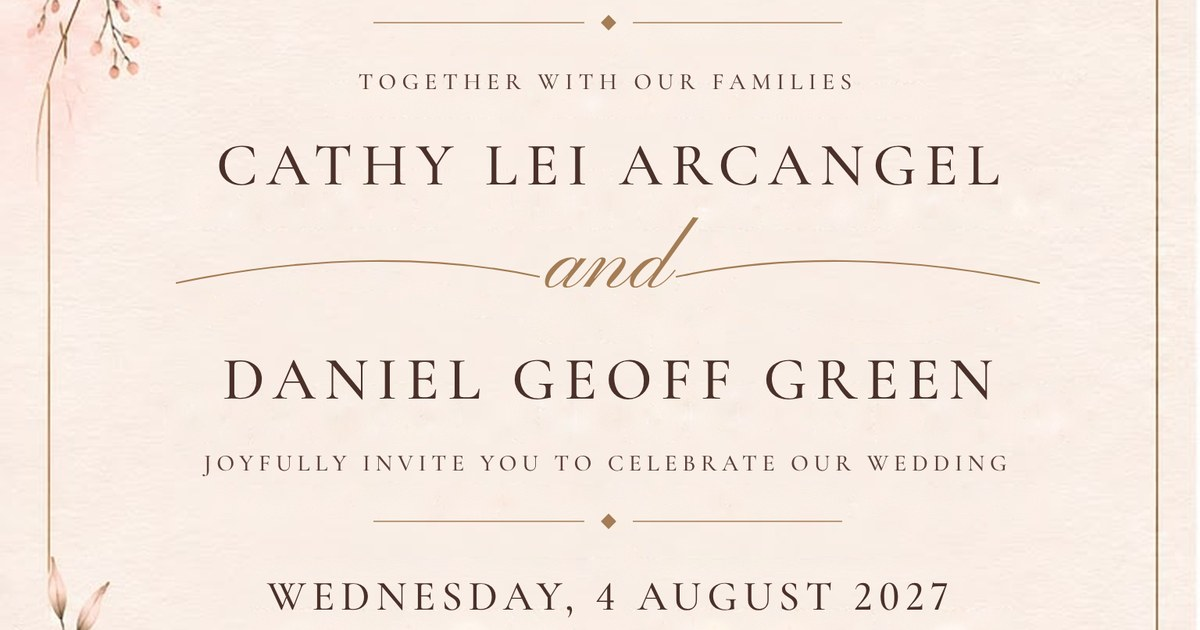
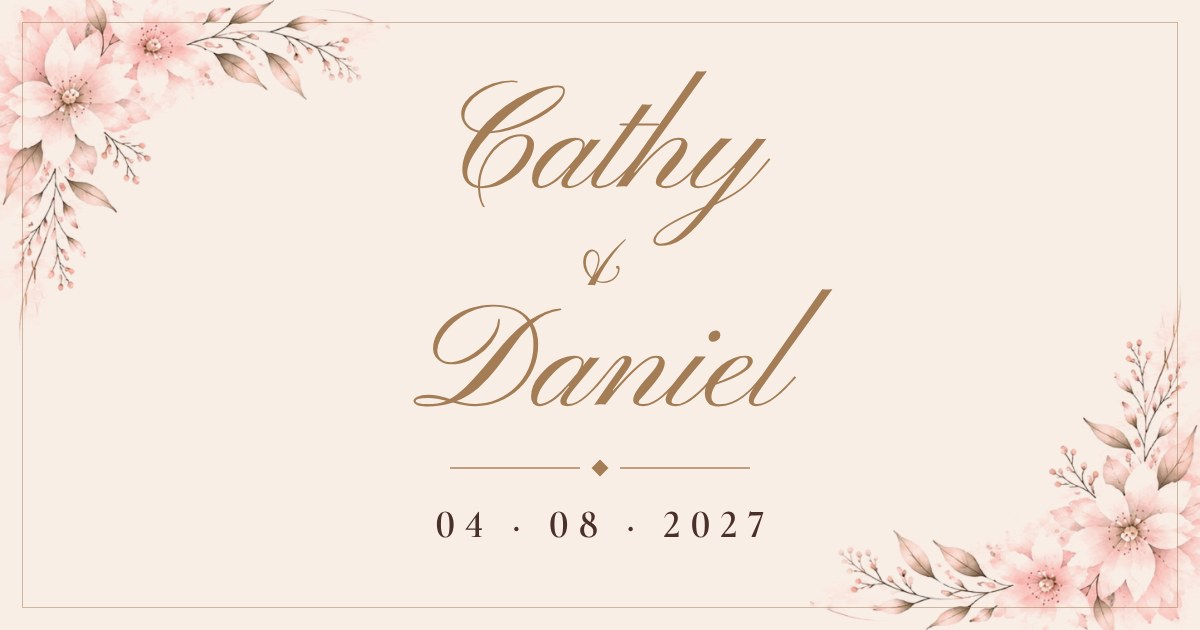
New link-preview image that still reads when cropped to a square thumbnail
Claude-Session: https://claude.ai/code/session_01Y5LZnpC1Qy5hW2T2PCSmLH

diff --git a/index.html b/index.html
@@ -13,14 +13,14 @@
 <meta property="og:site_name" content="Cathy &amp; Daniel">
 <meta property="og:title" content="Cathy &amp; Daniel are getting married">
 <meta property="og:description" content="Wednesday, 4 August 2027 · Surf Suites, URBNSURF Sydney">
-<meta property="og:image" content="https://danielgreengit.github.io/Cathy-and-Daniel/assets/share.jpg">
-<meta property="og:image:secure_url" content="https://danielgreengit.github.io/Cathy-and-Daniel/assets/share.jpg">
+<meta property="og:image" content="https://danielgreengit.github.io/Cathy-and-Daniel/assets/share.jpg?v=2">
+<meta property="og:image:secure_url" content="https://danielgreengit.github.io/Cathy-and-Daniel/assets/share.jpg?v=2">
 <meta property="og:image:type" content="image/jpeg">
 <meta property="og:image:width" content="1200">
 <meta property="og:image:height" content="630">
 <meta property="og:image:alt" content="Cathy Lei Arcangel and Daniel Geoff Green wedding invitation">
 <meta name="twitter:card" content="summary_large_image">
-<meta name="twitter:image" content="https://danielgreengit.github.io/Cathy-and-Daniel/assets/share.jpg">
+<meta name="twitter:image" content="https://danielgreengit.github.io/Cathy-and-Daniel/assets/share.jpg?v=2">
 <meta name="theme-color" content="#f9eee6">
 <link rel="icon" href="assets/favicon.svg" type="image/svg+xml">
 <link rel="preconnect" href="https://fonts.googleapis.com">
